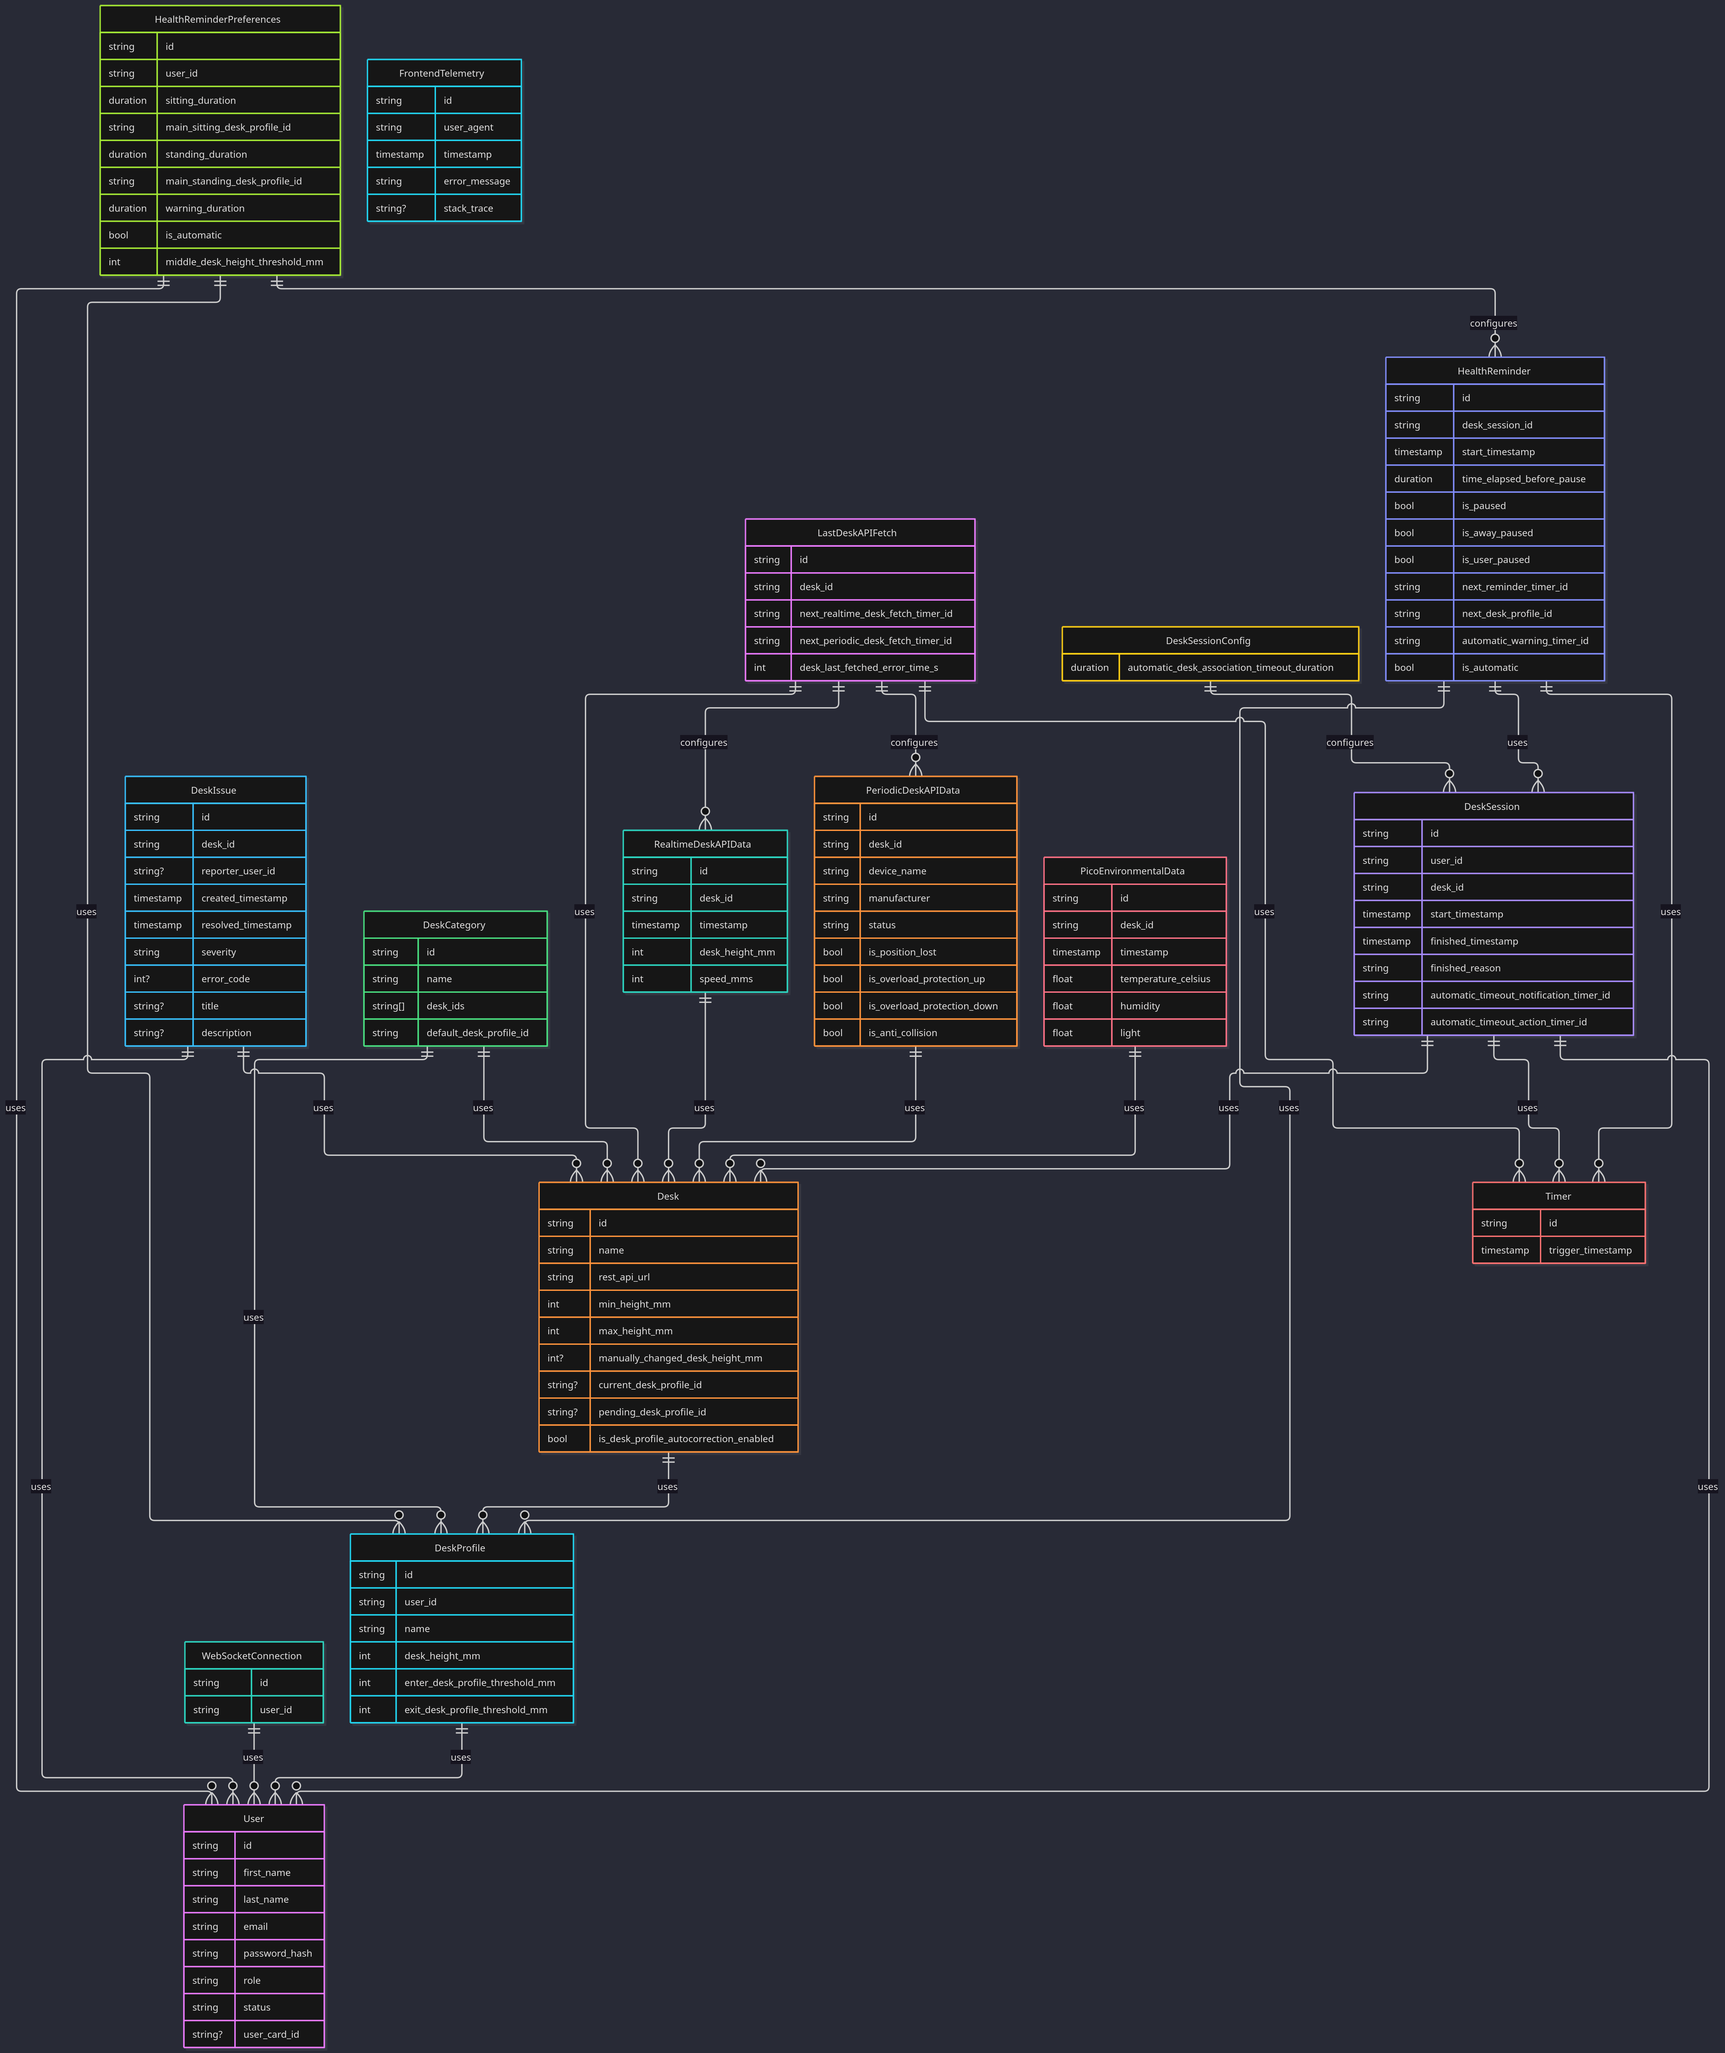
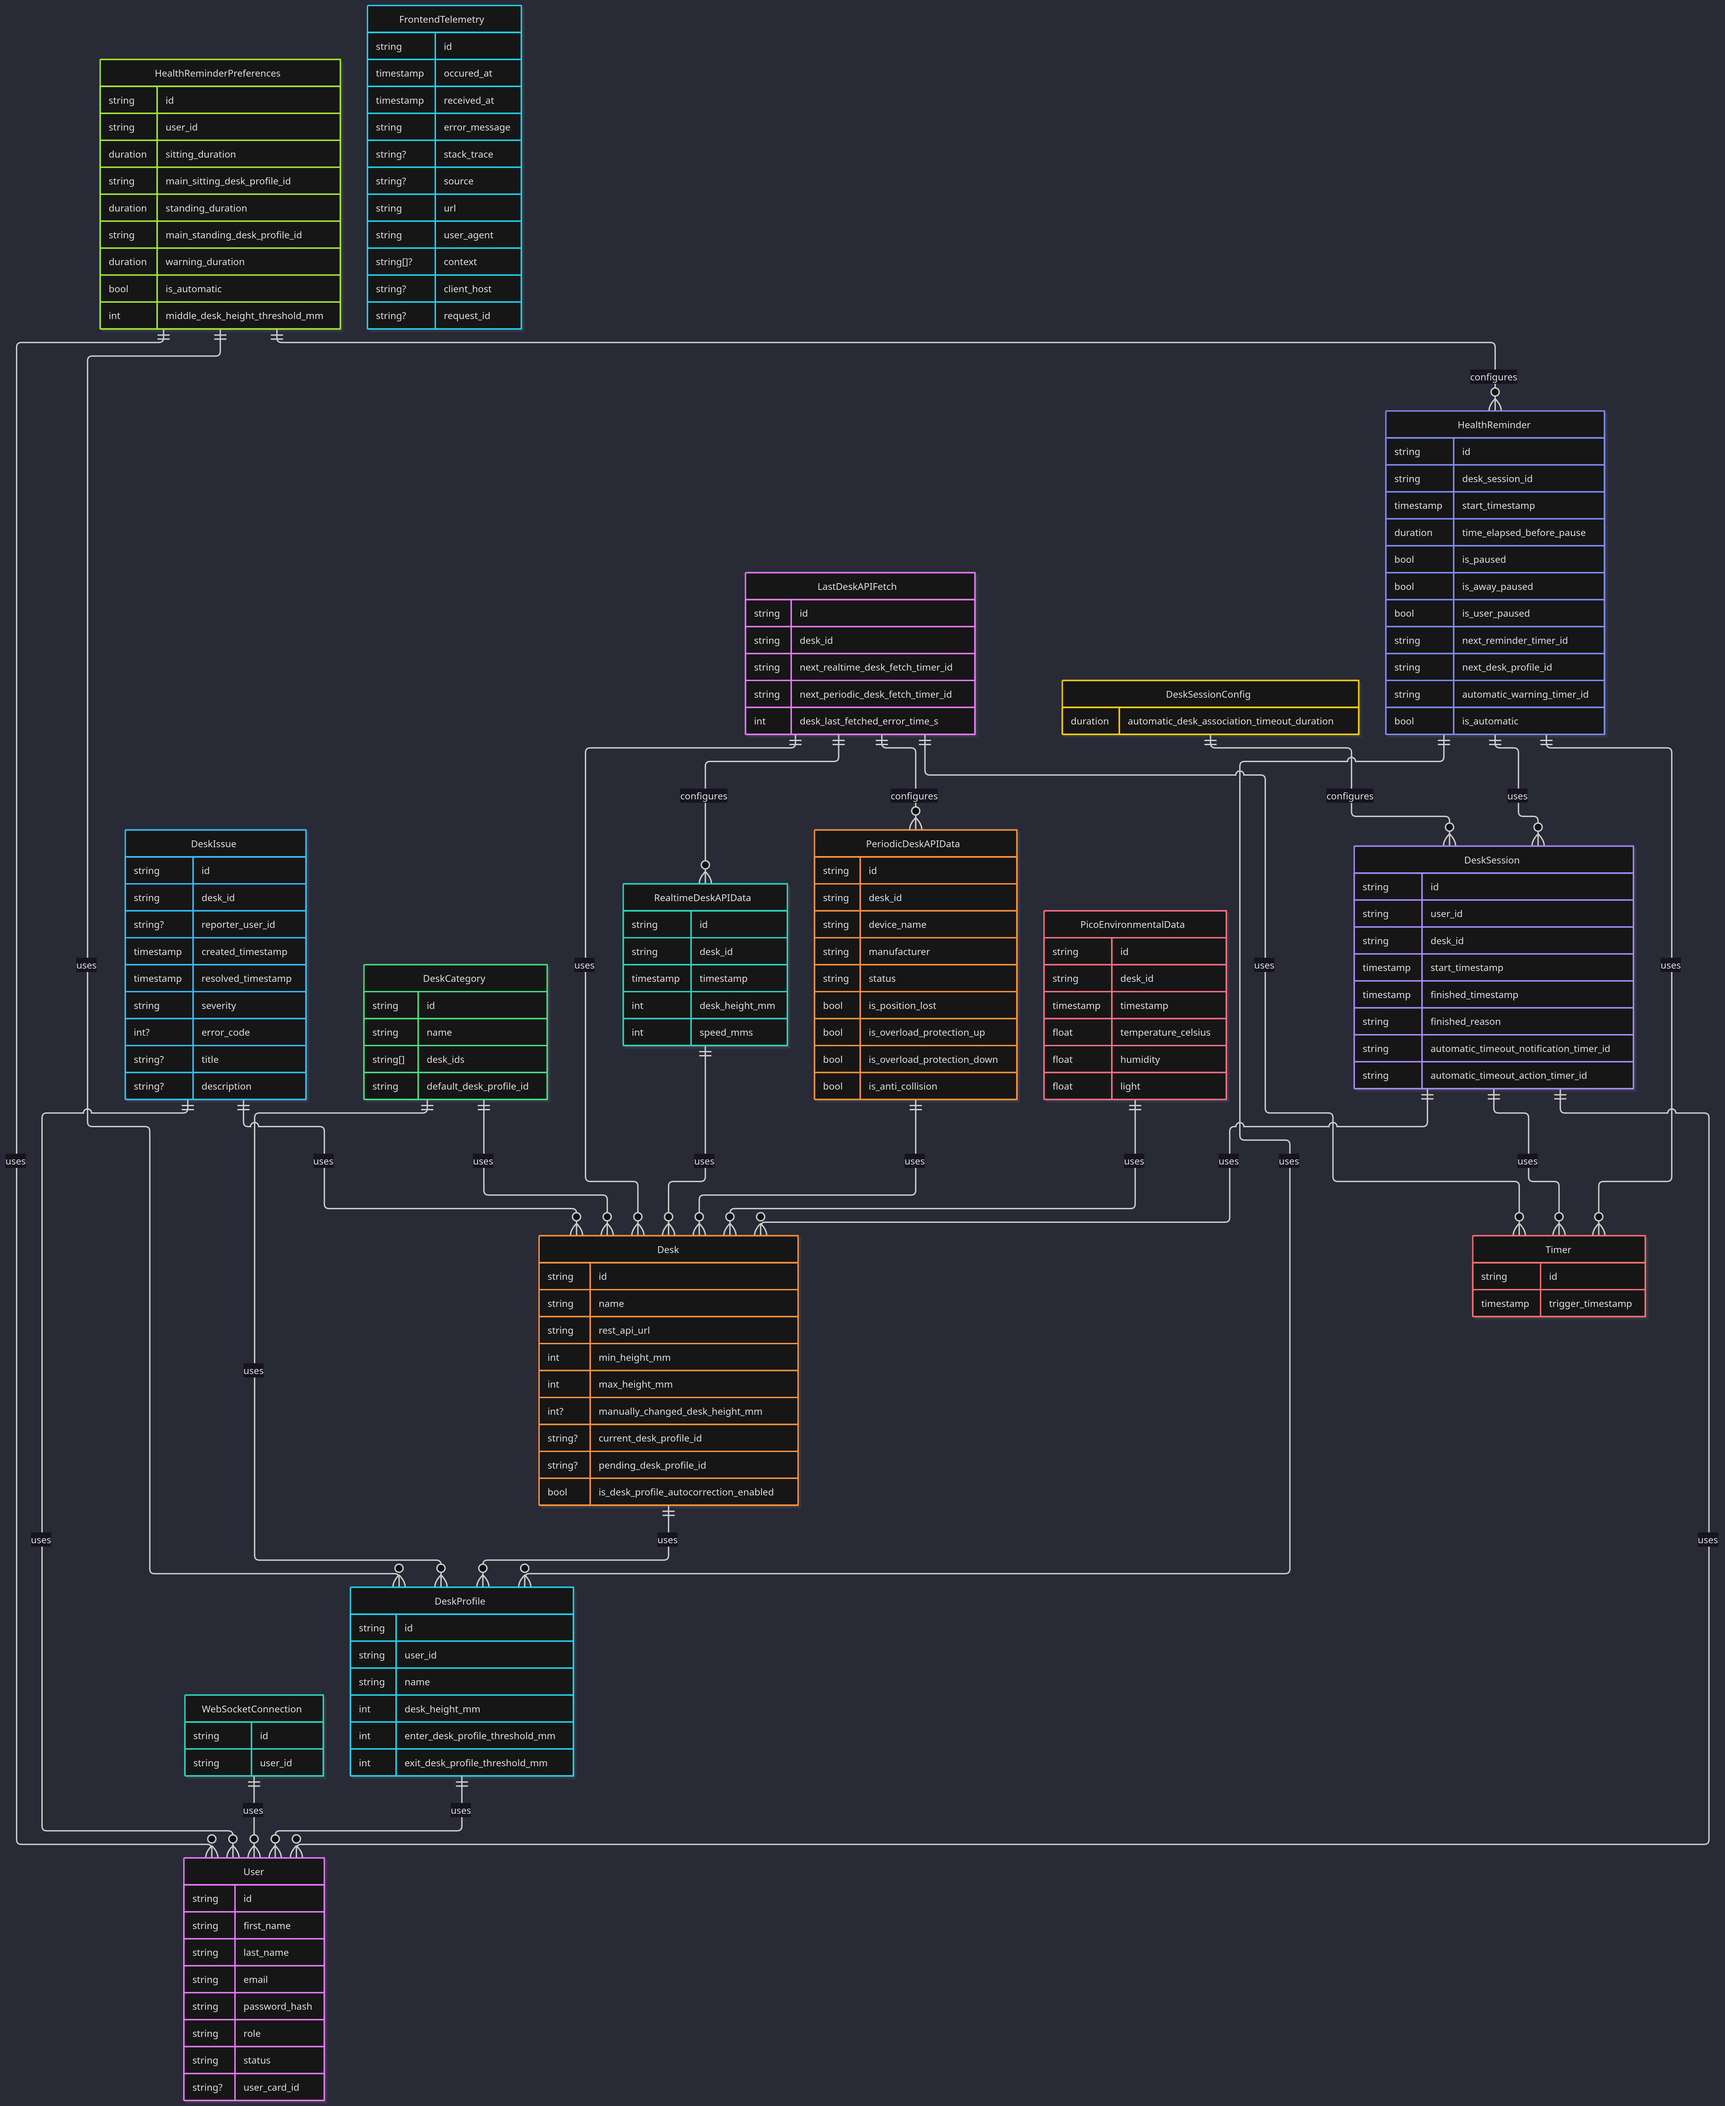
update frontend telemetry

diff --git a/docs/core/entities_relationships.md b/docs/core/entities_relationships.md
@@ -13,8 +13,6 @@
 - Status: ['online', 'away', 'do not disturb', 'offline']
 - User card ID
 
-TODO: check if need to store salt
-
 ID:
 - Used for login purposes (not sure)
 - Desk association
@@ -335,11 +333,18 @@ Polled every minute.
 ### Data
 
 - ID
-- User agent
-- Timestamp
+- Occured timestamp
 - Error message
-- Stack trace
-- [TODO: anything more?]
+- Received timestamp
+- Stack trace (can be null)
+- Source
+- URL
+- User agent
+- Context (can be null)
+- Client host (can be null)
+- Request ID (can be null)
+
+### Events
 
 - On frontend telemetry created (ID)
 
